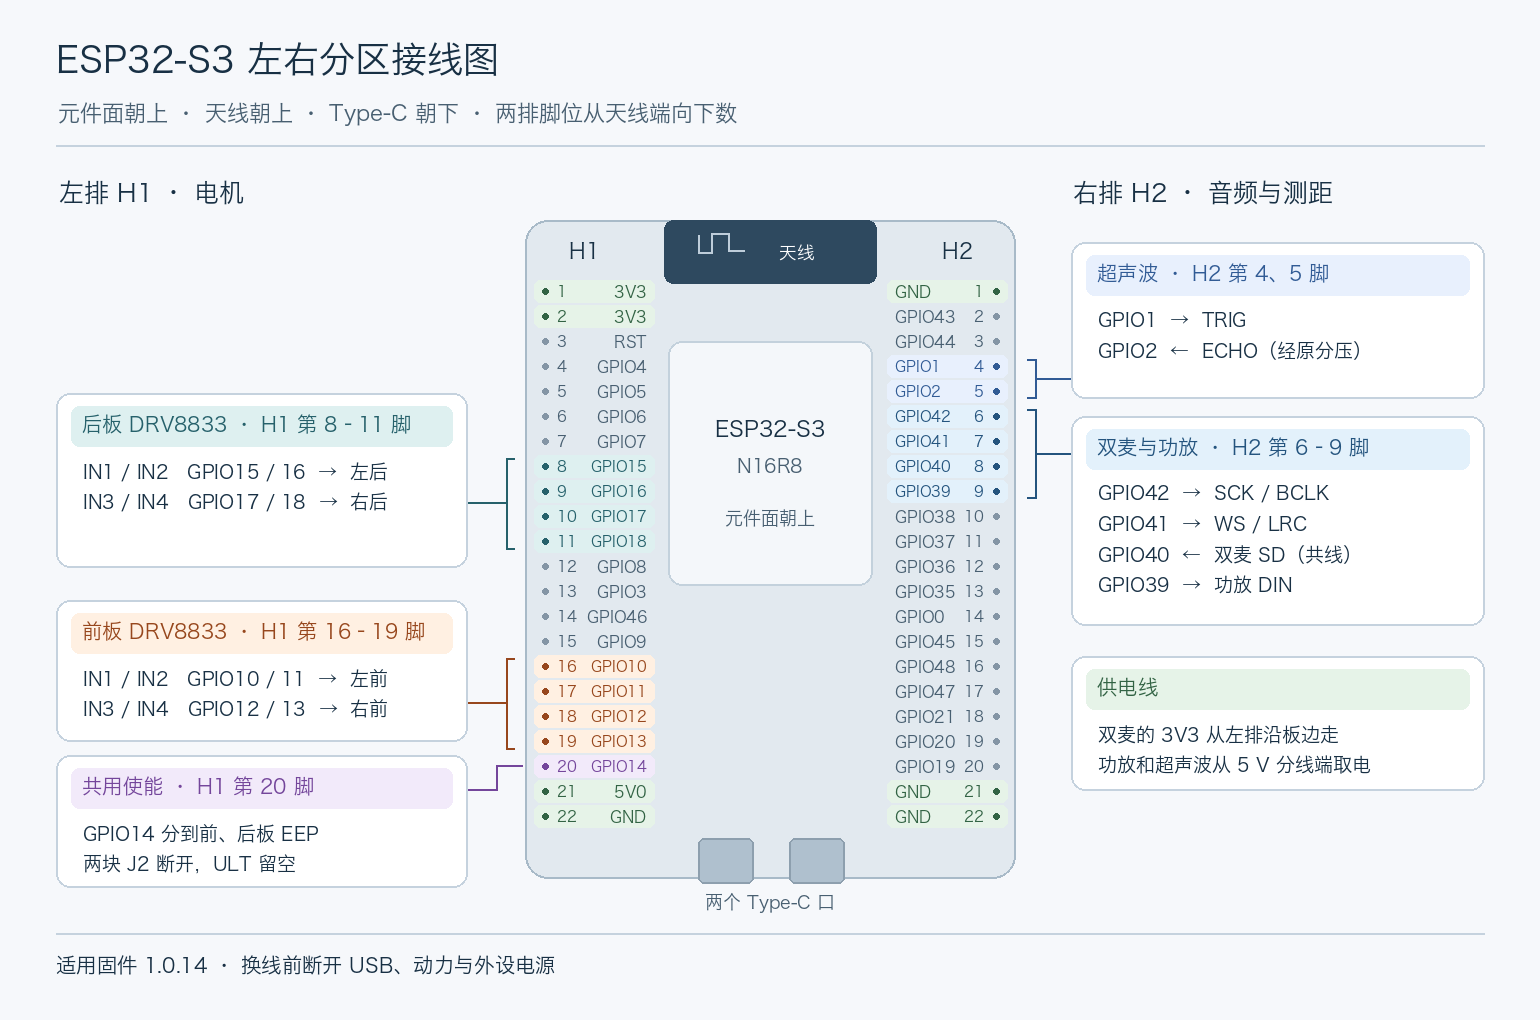
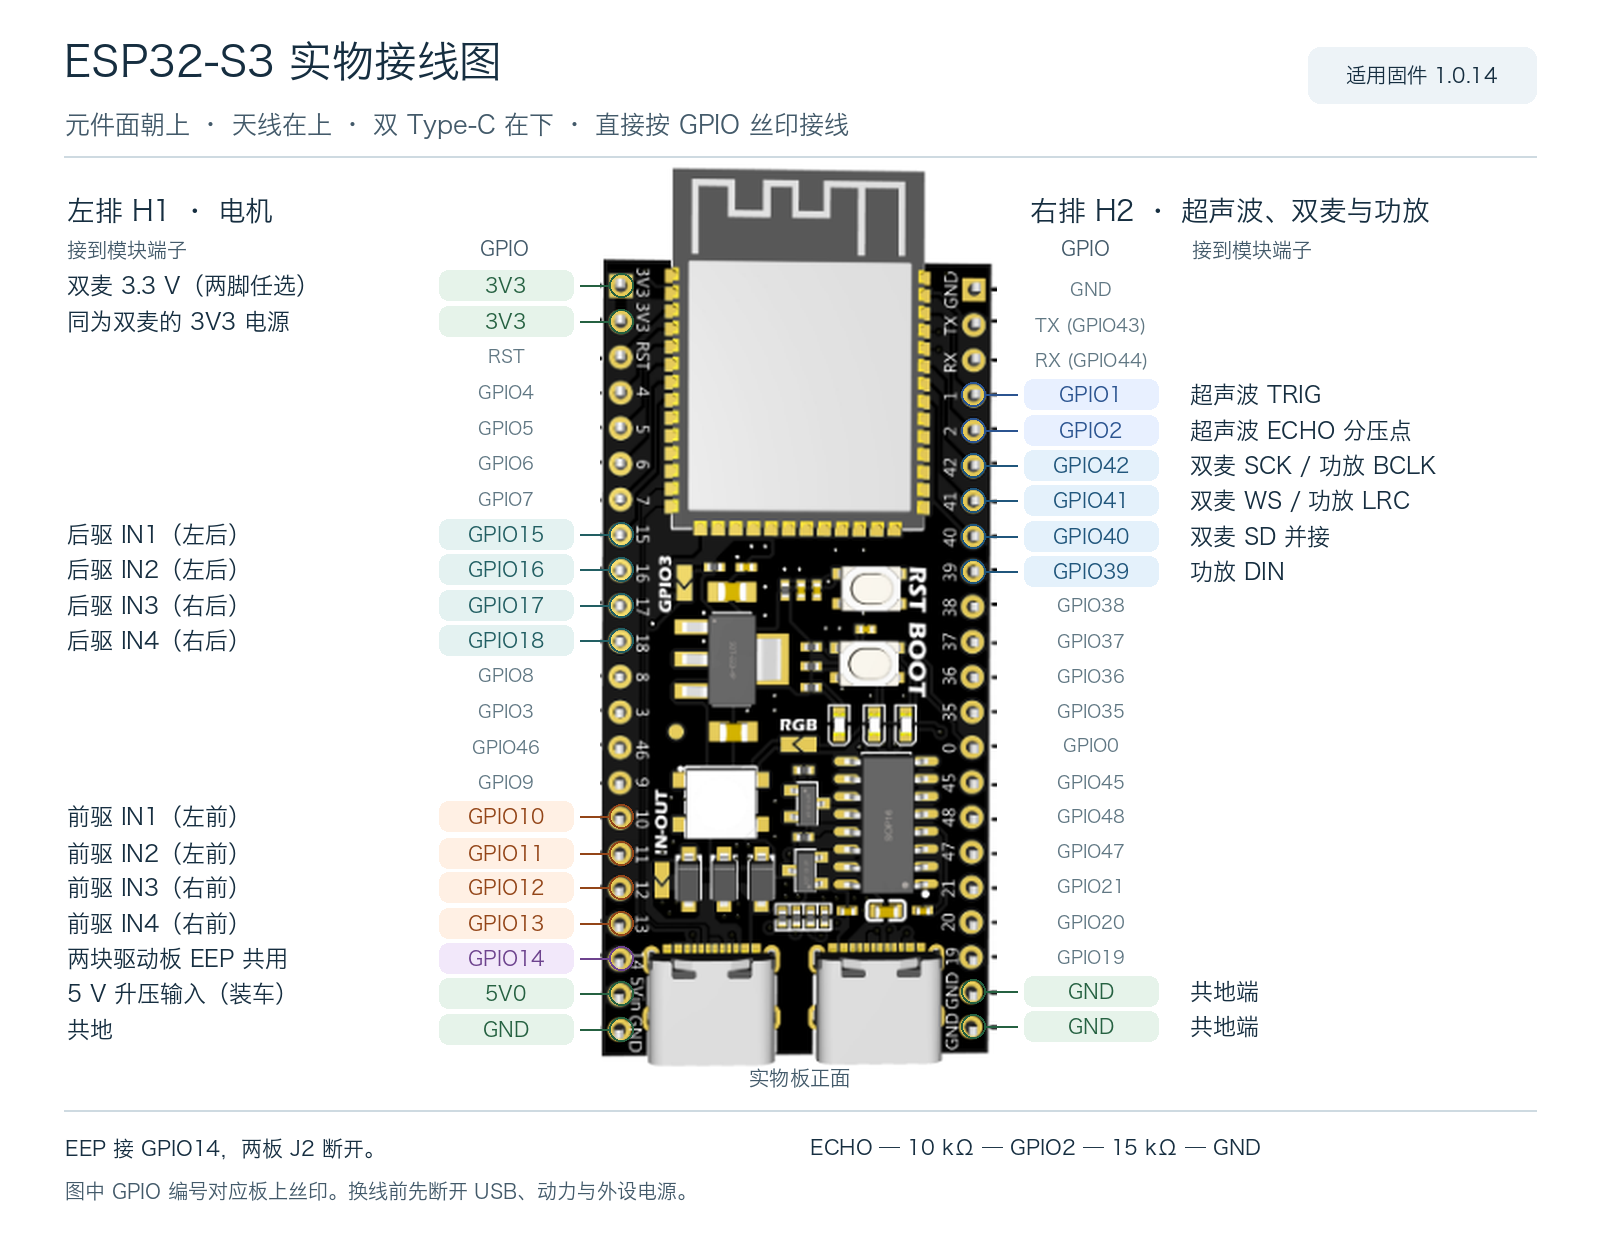
Use the ESP32-S3 board image in the wiring guide

diff --git a/docs/WIRING.md b/docs/WIRING.md
@@ -4,7 +4,7 @@
 
 **这份接线对应固件 1.0.14。** 旧版的 `GPIO16` 使能线在新版应移到 `GPIO14`，`GPIO16` 改接后驱动板 `IN2`。换线时拔掉 USB，断开动力与外设电源。换线并刷入新版后，先用 USB 验证测距，再架空车轮接入动力测试。
 
-![ESP32-S3 新版左右排针接线图](gpio-wiring.png)
+![以实物开发板为底图的 ESP32-S3 接线图](gpio-wiring.png)
 
 ## 洞洞板装配图
 
@@ -16,9 +16,9 @@
 
 ## ESP32-S3 排针定位
 
-将开发板元件面朝上、天线朝上、两个 Type-C 口朝下。从天线端往下数脚位。板上数字是 GPIO 编号，例如左排第 20 脚的丝印 `14` 表示 `GPIO14`。
+将开发板元件面朝上、天线朝上、两个 Type-C 口朝下。**接线时优先看实物丝印和彩图标出的焊孔。** 表中 `H1`、`H2` 的第几脚是从天线端往下数的排针位置。左排丝印 `14` 是 `GPIO14`，紧挨着 `5V0` 的上方。右排丝印 `1` 是 `GPIO1`，在 `RX` 的下一脚。
 
-| 从天线端数 | 左排 `H1`，按从上到下排列 | 右排 `H2`，按从上到下排列 |
+| 排针位置，从天线端数 | 左排 `H1` 丝印，从上到下 | 右排 `H2` 丝印，从上到下 |
 | --- | --- | --- |
 | 1 至 3 | `3V3`、`3V3`、`RST` | `GND`、`TX (GPIO43)`、`RX (GPIO44)` |
 | 4 至 7 | `4`、`5`、`6`、`7` | `1`、`2`、`42`、`41` |
